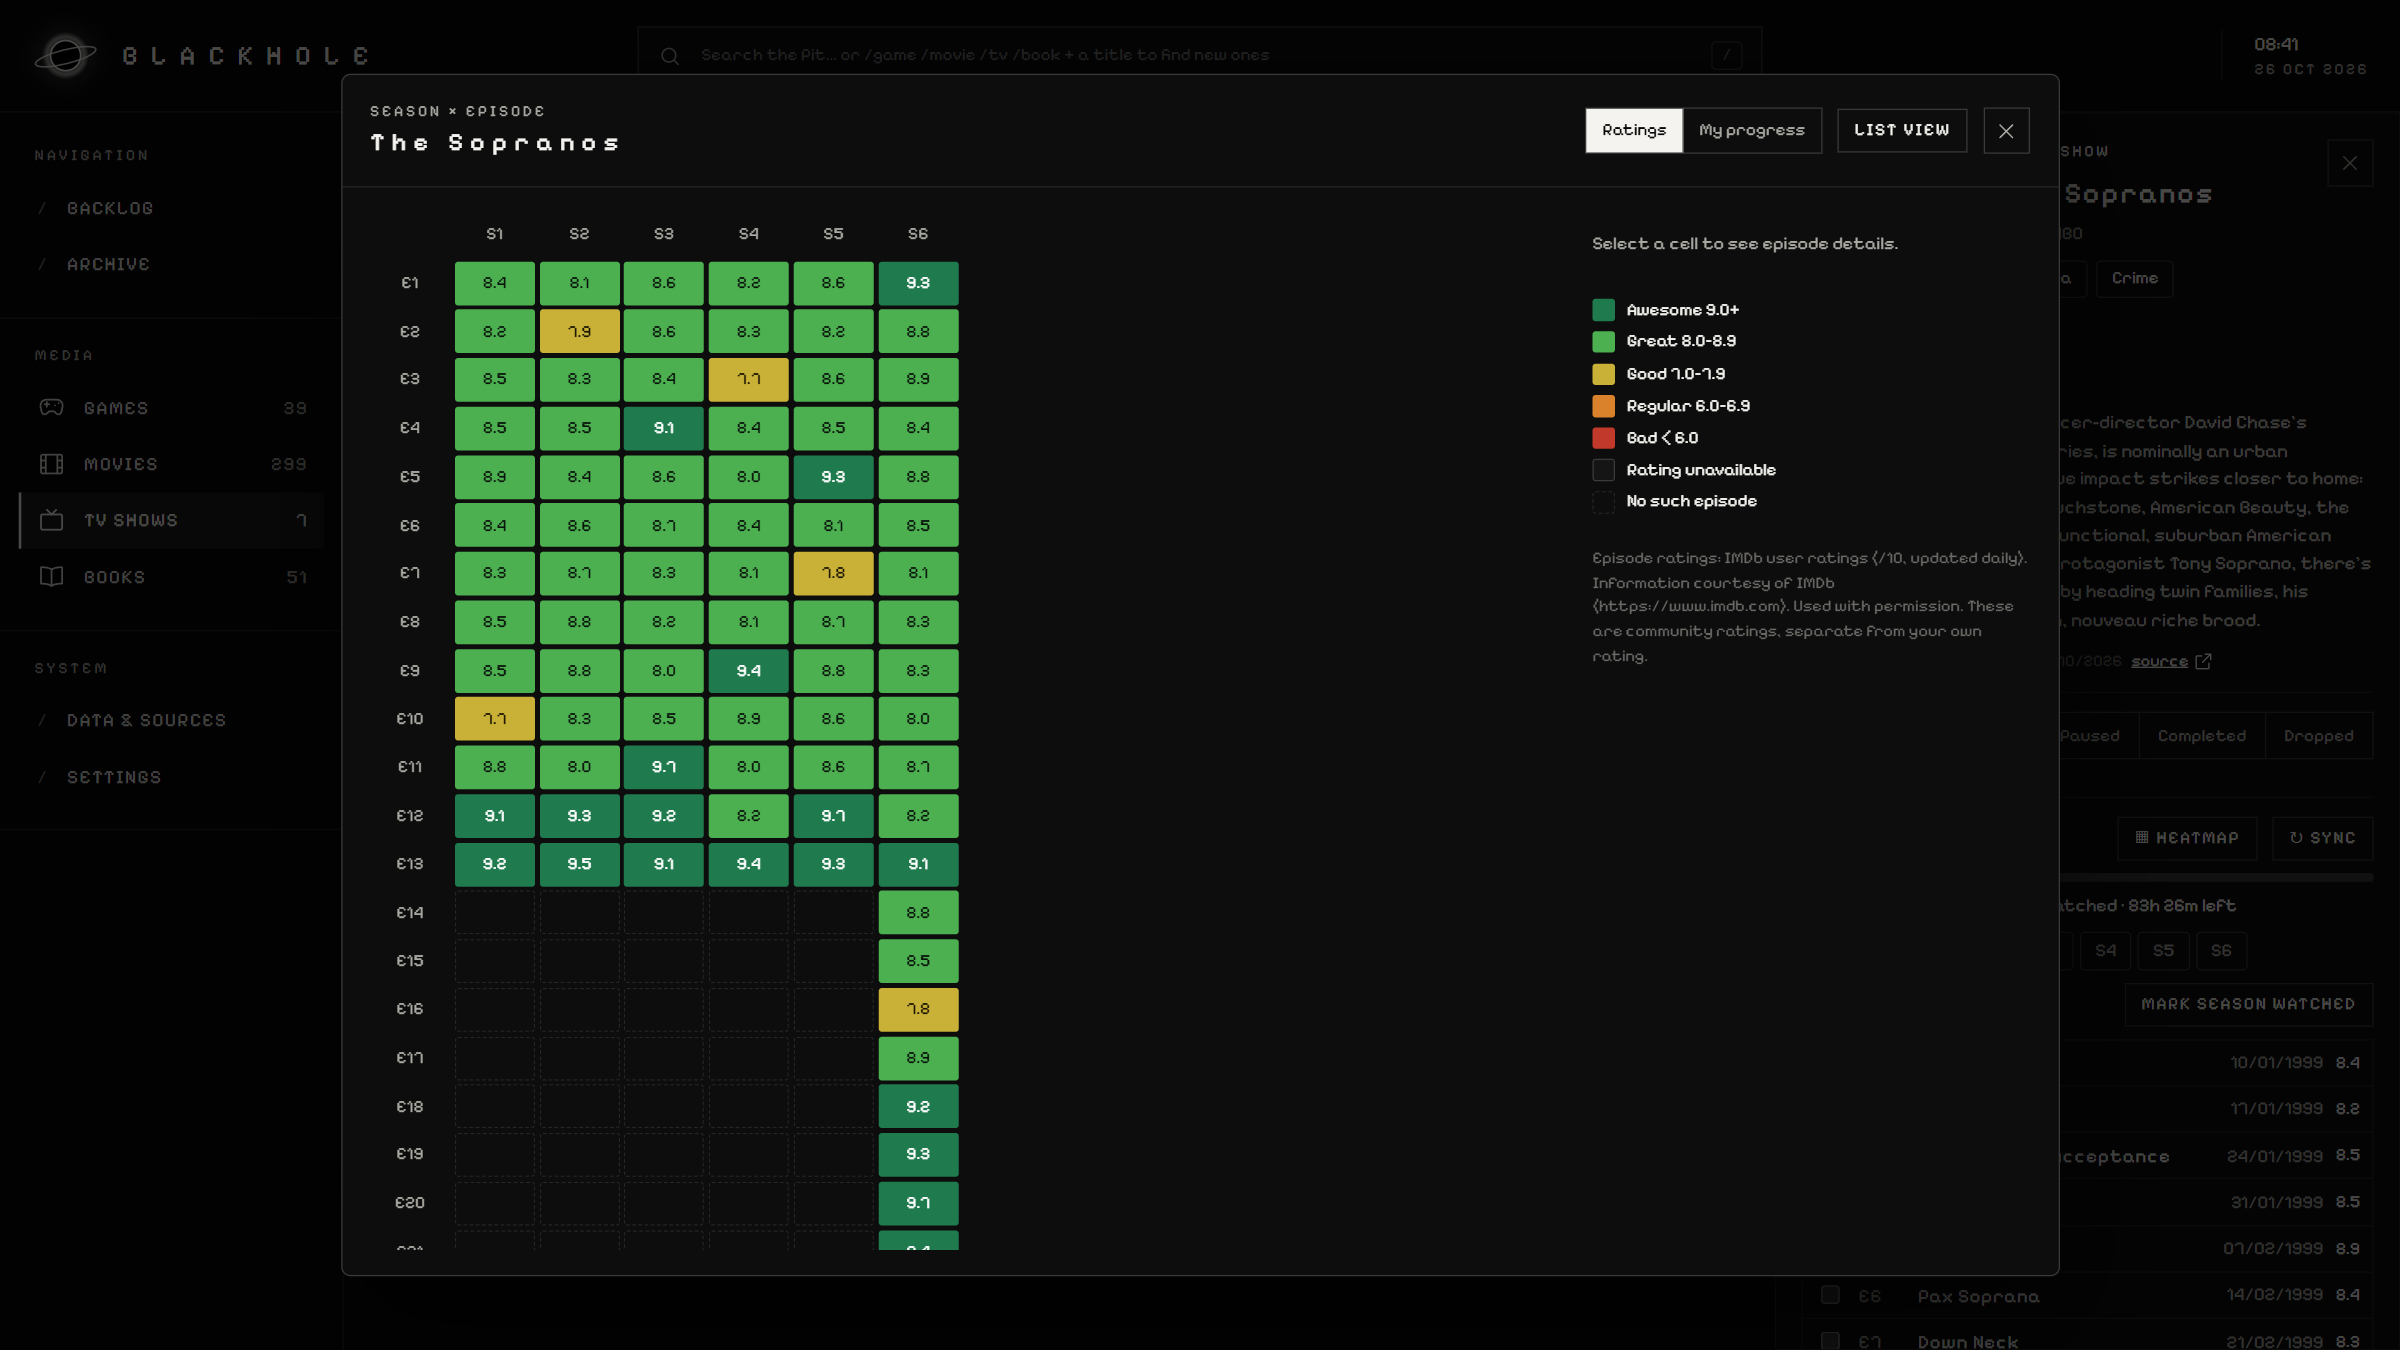
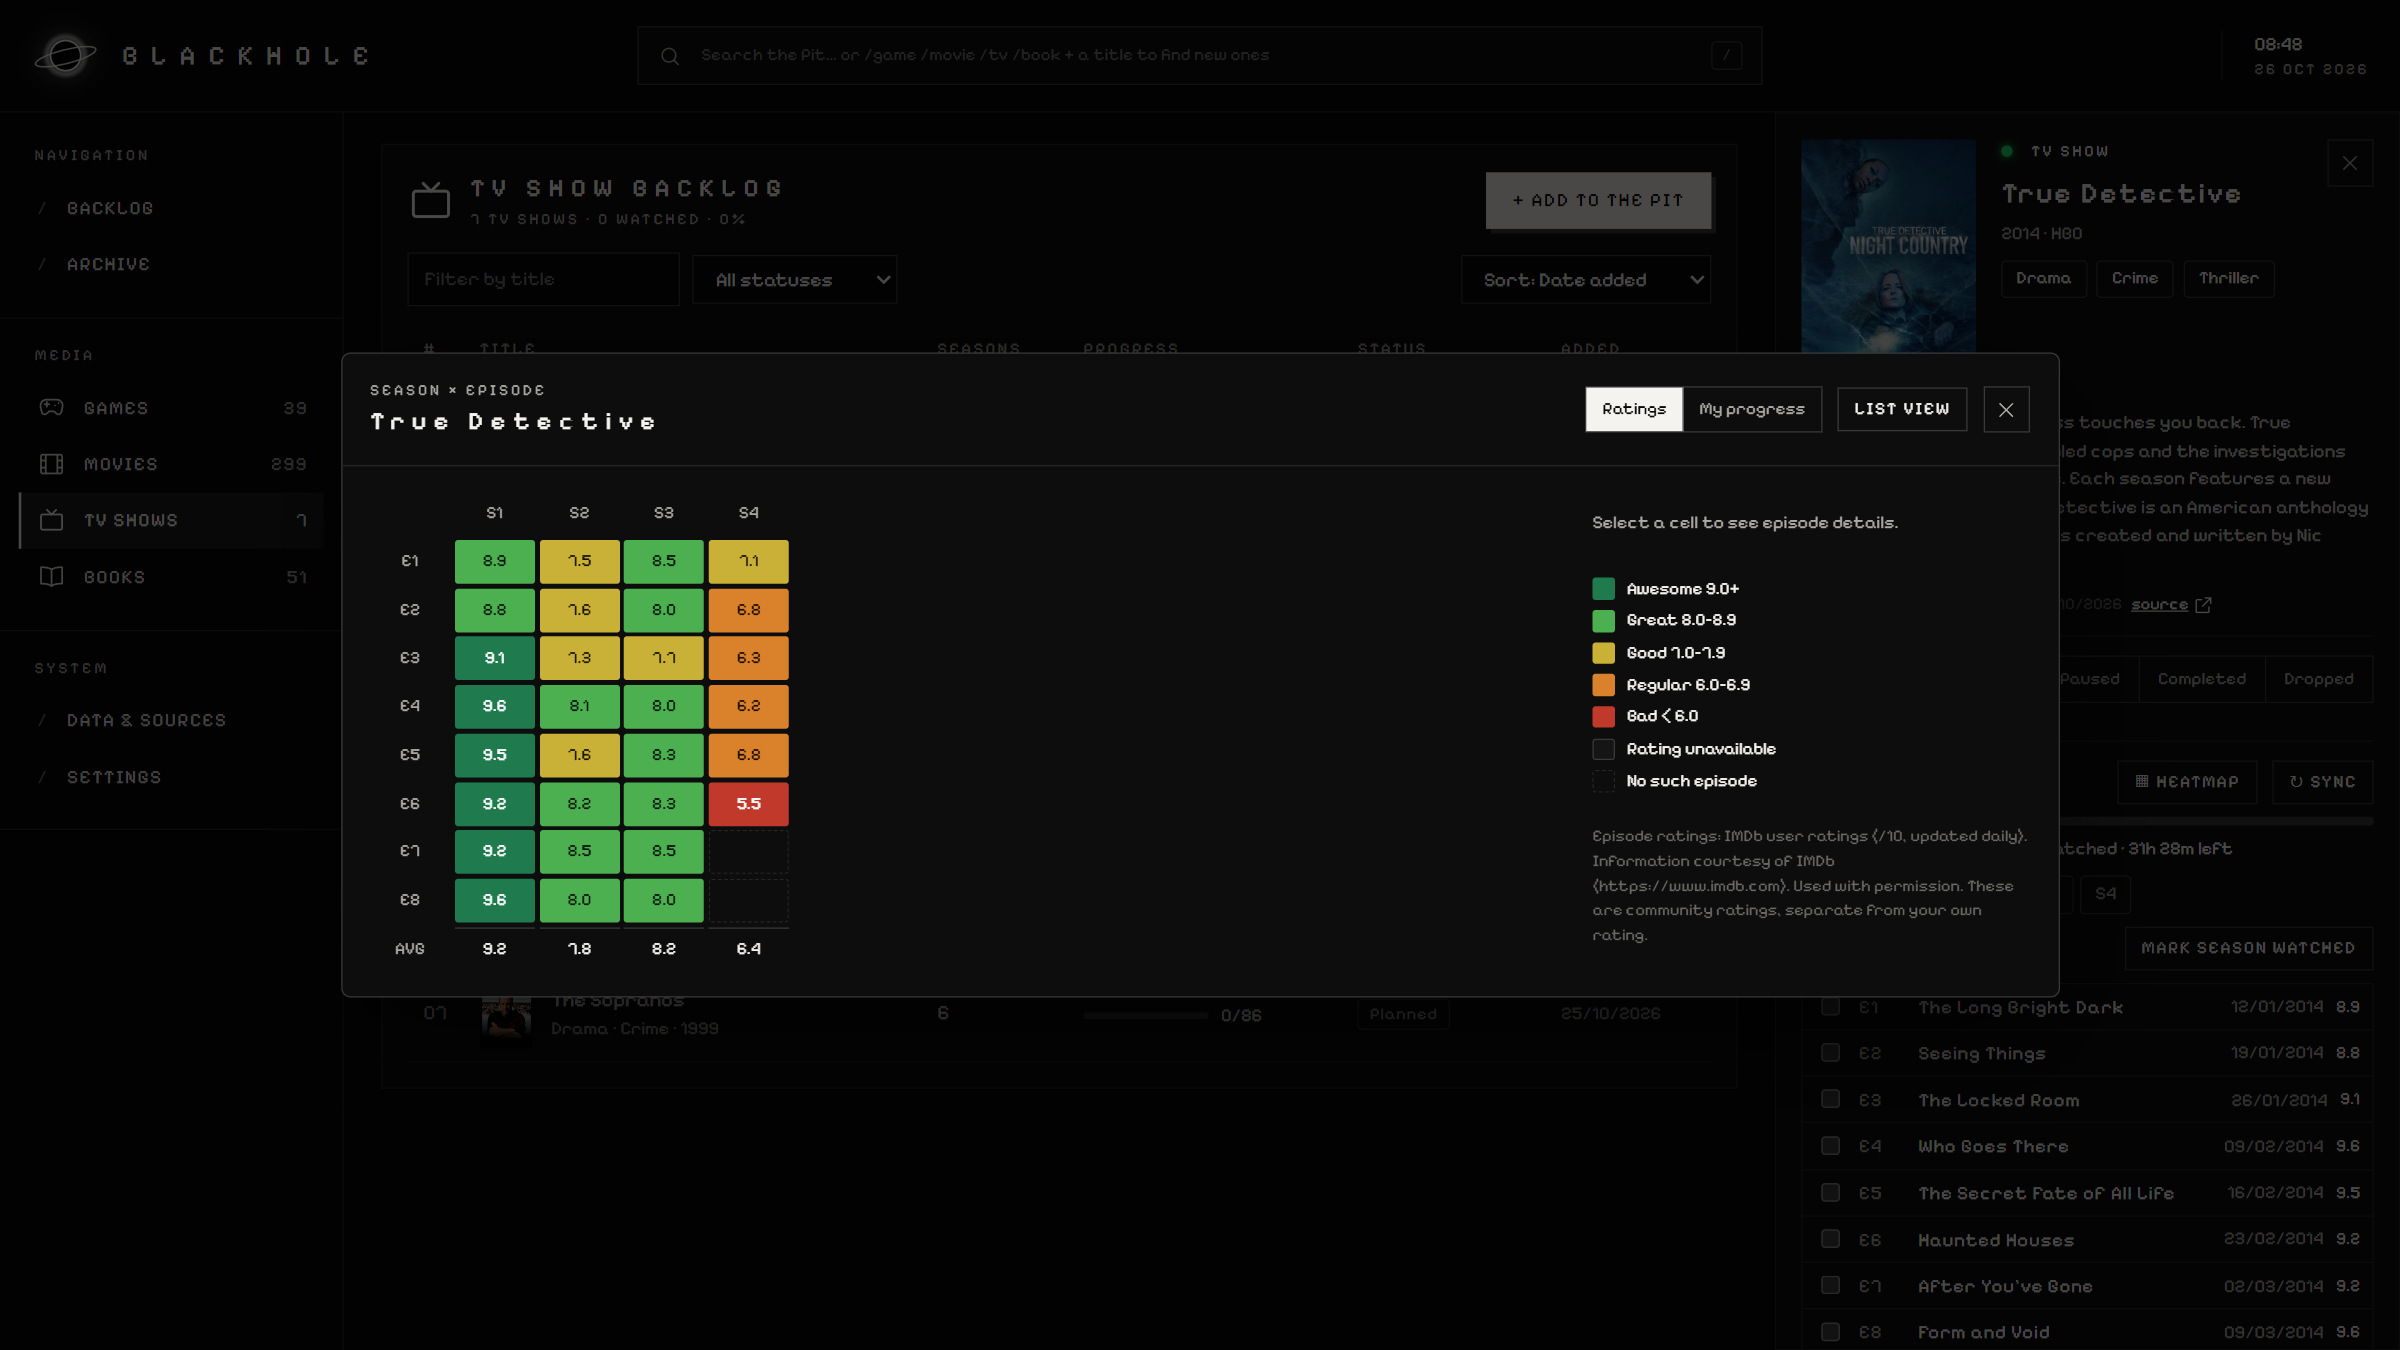
README heatmap screenshot: True Detective

diff --git a/docs/agents/AGENT_claude-opus-blackhole-01_HANDOFF.md b/docs/agents/AGENT_claude-opus-blackhole-01_HANDOFF.md
@@ -142,3 +142,5 @@
 
 - **Owner screenshot "platform buttons":** the inspector's Playing on picker was one bordered `.seg` box that wrapped onto a second row, leaving uneven lines and an empty cell. Owner asked for separate buttons in rows with a gap and no box around them. It now uses `.chip-group` (flex-wrap, 6px gap, each button has its own border; the selected one is filled). The `.seg.fit` rule it replaced had no other users and is gone. Files: `apps/web/src/features/Inspector.tsx`, `apps/web/src/styles/app.css`. `docs/screenshots/02-games.png` re-shot to show it.
 - Checks: lint, format check, typecheck, tests; checked visually on the :4318 copy at 1920×1080.
+
+- Owner asked for the README heatmap screenshot to show True Detective instead of The Sopranos: `docs/screenshots/05-tv-heatmap.png` re-shot (all four seasons, full colour range). The Hollow Knight shot with the new platform buttons went in with PR #19.
